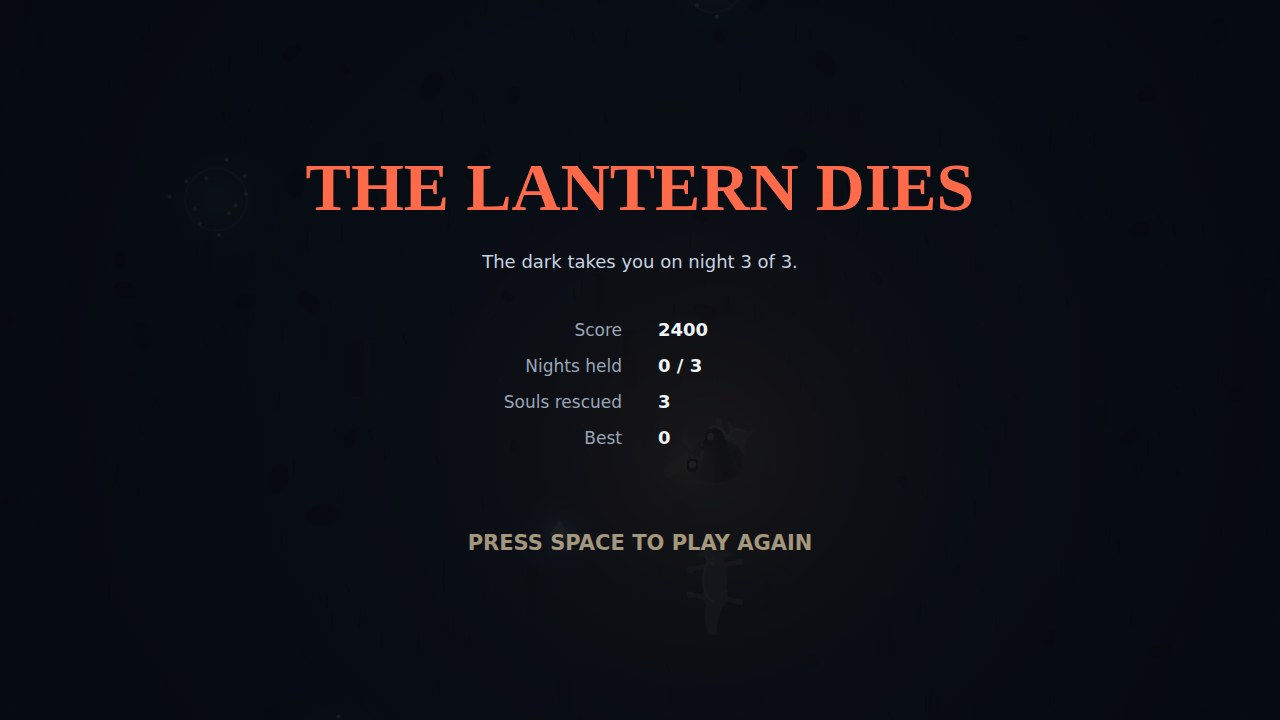
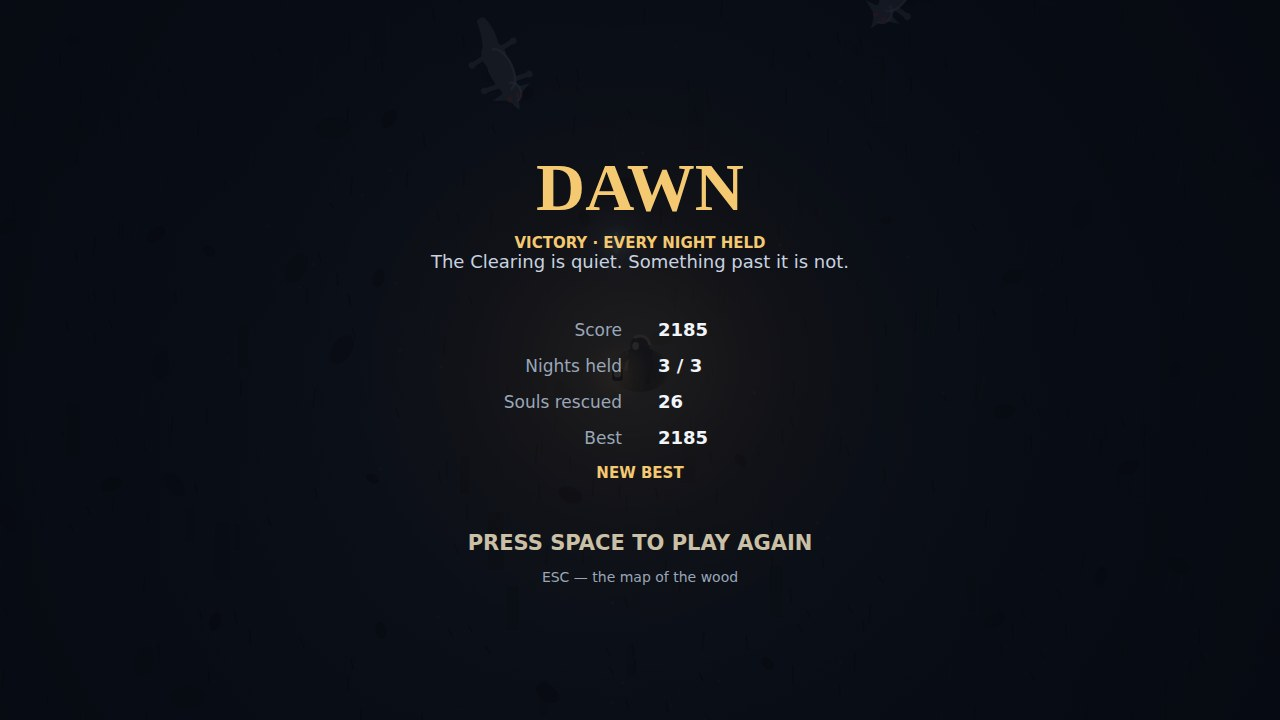
screenshots: a real victory screen, and an honest defeat scene

diff --git a/game/src/render.js b/game/src/render.js
@@ -730,9 +730,11 @@ export function createRenderer(canvas) {
     context.font = `700 68px ${FONT_DISPLAY}`;
     context.fillText(won ? 'DAWN' : 'THE LANTERN DIES', VIEW.width / 2, VIEW.height / 2 - 150);
     if (won) {
+      // Say it in words. "DAWN" is the game's metaphor, but a screenshot is read by someone who
+      // does not know the metaphor yet.
       context.fillStyle = palette.gold;
-      context.font = `600 16px ${FONT}`;
-      context.fillText('EVERY NIGHT HELD', VIEW.width / 2, VIEW.height / 2 - 112);
+      context.font = `700 15px ${FONT}`;
+      context.fillText('VICTORY · EVERY NIGHT HELD', VIEW.width / 2, VIEW.height / 2 - 112);
     }
     context.fillStyle = '#c8d2e0';
     context.font = `400 18px ${FONT}`;
@@ -740,13 +742,17 @@ export function createRenderer(canvas) {
       ? `${region.name} is quiet. Something past it is not.`
       : `The dark takes you on night ${state.night} of ${state.nightCount}.`, VIEW.width / 2, VIEW.height / 2 - 92);
 
+    // `best` is the record as it stood before this run, so a new best has to display the score,
+    // not the old record: a row reading "Best 0" under the words NEW BEST is the screen calling
+    // itself a liar.
+    const isNewBest = won && state.score > best && state.score > 0;
+    const shownBest = isNewBest ? state.score : Math.max(best, won ? state.score : best);
     const rows = [
       ['Score', String(state.score)],
       ['Nights held', `${state.nightsSurvived} / ${state.nightCount}`],
       ['Souls rescued', String(state.soulsSaved)],
-      ['Best', String(best)],
+      ['Best', String(shownBest)],
     ];
-    const isNewBest = won && state.score >= best && state.score > 0;
     rows.forEach((row, index) => {
       const y = VIEW.height / 2 - 24 + index * 36;
       context.textAlign = 'right';
@@ -767,9 +773,12 @@ export function createRenderer(canvas) {
     }
     const pulse = 0.55 + Math.sin(state.elapsed * 3.6) * 0.45;
     context.textAlign = 'center';
-    context.fillStyle = `rgba(255,232,190,${0.5 + pulse * 0.5})`;
+    context.fillStyle = `rgba(255,240,208,${0.72 + pulse * 0.28})`;
     context.font = `700 21px ${FONT}`;
     context.fillText('PRESS SPACE TO PLAY AGAIN', VIEW.width / 2, VIEW.height / 2 + 190);
+    context.fillStyle = palette.muted;
+    context.font = `500 14px ${FONT}`;
+    context.fillText('ESC — the map of the wood', VIEW.width / 2, VIEW.height / 2 + 222);
     context.restore();
   }
 

diff --git a/game/src/shots.js b/game/src/shots.js
@@ -161,6 +161,18 @@ export function stageShot(name, world, save) {
     return { screen: SCREEN_PLAY };
   }
 
+  if (name === 'lose') {
+    // A real defeat, produced by the rules: play well until mid-run, then stop steering and let
+    // the dark take it. Starving the lantern directly would stage a screen the game cannot reach.
+    play(world, 60 * 26);
+    let guard = 0;
+    while (!state.over && guard < 60 * 300) {
+      world.step(1 / 60, { x: 0, y: 0 }, false);
+      guard += 1;
+    }
+    return { screen: state.won ? SCREEN_WON : SCREEN_OVER };
+  }
+
   if (name === 'end') {
     // Run until the lantern dies, then show it. The light is forced low partway through so the
     // scene reaches the ending in a bounded number of steps.
@@ -176,13 +188,16 @@ export function stageShot(name, world, save) {
   }
 
   if (name === 'win') {
-    // Hand the region its last night, then let the rules finish it.
-    play(world, 60 * 12);
-    state.night = state.nightCount;
-    state.nightElapsed = state.nights[state.nightCount - 1].seconds - 0.2;
-    state.light = Math.max(state.light, 0.55);
-    state.score = Math.max(state.score, 2400);
-    world.step(1 / 60, { x: 0, y: 0 }, false);
+    // Play the region honestly until the rules say it is over. Forcing the clock forward used to
+    // land on the loss screen instead, and a screenshot of a defeat labelled "dawn" is worse than
+    // no screenshot: the judge reads the sheet, not the caption.
+    let guard = 0;
+    while (!state.over && guard < 60 * 600) {
+      const command = autopilot(world, null);
+      if (command.flare) world.strike();
+      world.step(1 / 60, command, false);
+      guard += 1;
+    }
     return { screen: state.won ? SCREEN_WON : SCREEN_OVER };
   }
 

diff --git a/game/src/main.js b/game/src/main.js
@@ -47,7 +47,10 @@ function runShot(name) {
     renderer.draw(world.state, scene.screen, 0, save, scene.cursor ?? 0);
     painted += 1;
     if (painted < 2) requestAnimationFrame(paint);
-    else window.__shotReady = true;
+    else {
+      window.__shotInfo = { screen: scene.screen, won: world.state.won, over: world.state.over, region: world.state.region.id };
+      window.__shotReady = true;
+    }
   }
   requestAnimationFrame(paint);
 }
